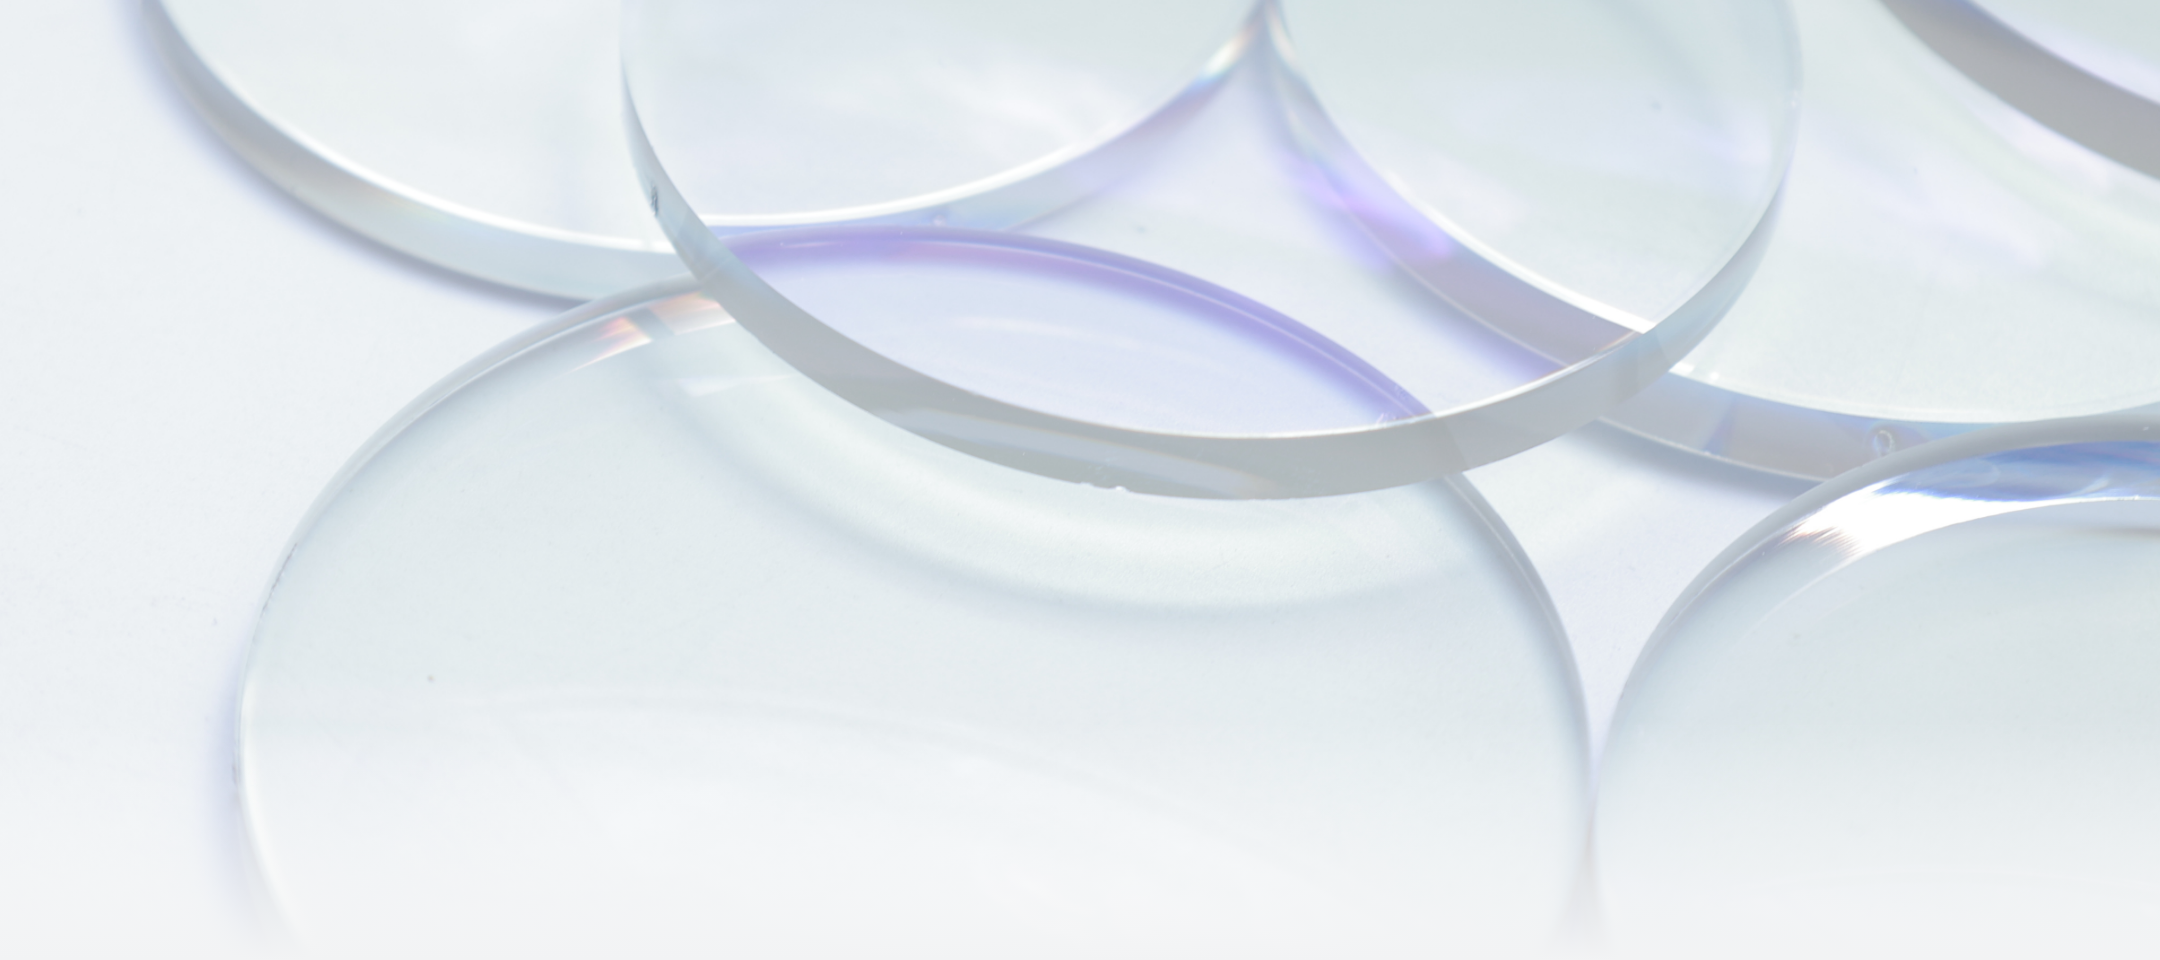
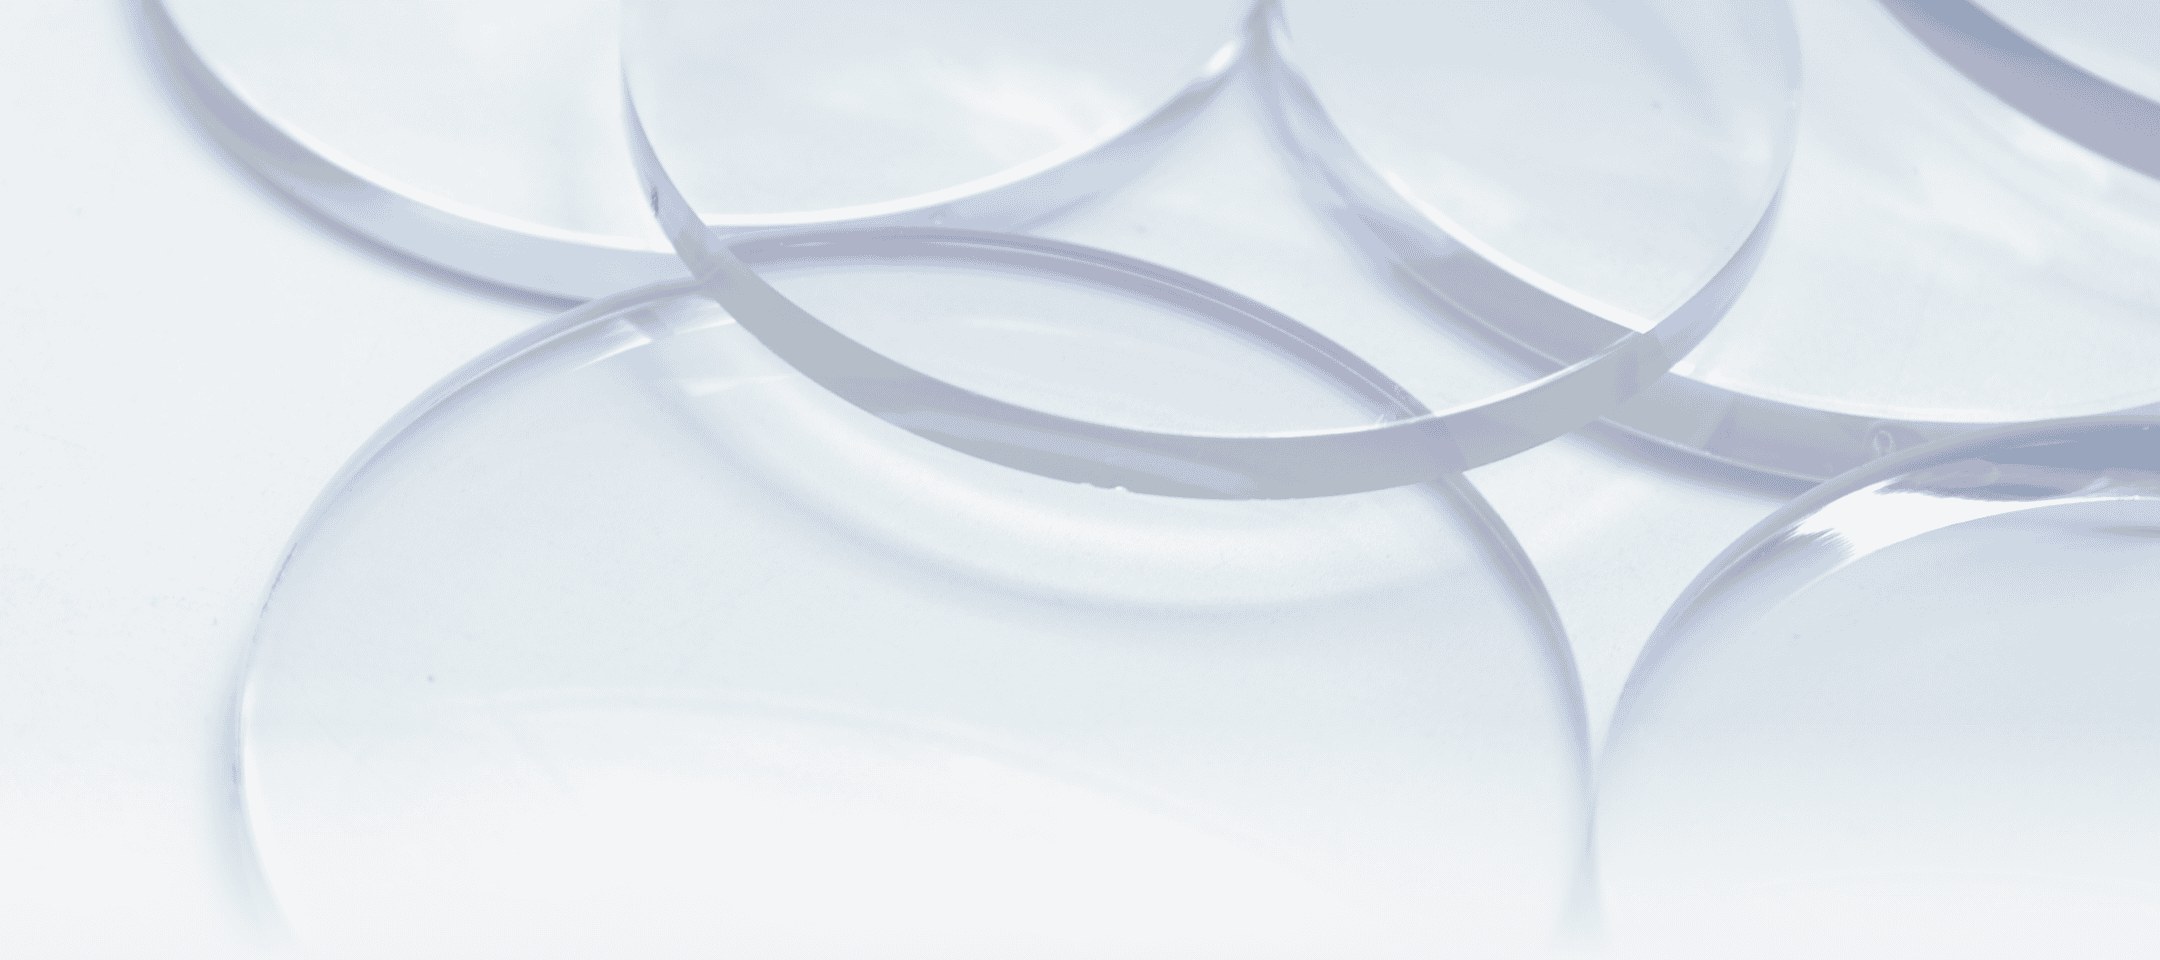
Optimized Images

diff --git a/index.html b/index.html
@@ -15,19 +15,19 @@
 <body id="top">
     <header>
         <div class="header-inner">
-            <a href="index.html#top">
+            <a href="#top">
                 <img class="logo" src="assets/icons/logo.png" alt="General Optics Logo" />
             </a>
             <nav class="nav-links">
                 <ul class="nav-links-inner">
                     <li><a href="#top">TOP</a></li>
-                    <li><a href="index.html#company">会社案内</a></li>
-                    <li><a href="index.html#products">製品案内</a></li>
-                    <li><a href="index.html#equipment">主要設備</a></li>
-                    <li><a href="index.html#news">お知らせ</a></li>
-                    <li><a href="index.html#contact">お問い合わせ</a></li>
+                    <li><a href="#company">会社案内</a></li>
+                    <li><a href="#products">製品案内</a></li>
+                    <li><a href="#equipment">主要設備</a></li>
+                    <li><a href="#news">お知らせ</a></li>
+                    <li><a href="#contact">お問い合わせ</a></li>
                 </ul>
-                <a href="index.html#careers" class="nav-button">採用情報</a>
+                <a href="#careers" class="nav-button">採用情報</a>
             </nav>
         </div>
     </header>
@@ -126,6 +126,7 @@
                             </a>
                         </div>
                         <img class="about-bg" src="assets/images/lens-factory-machines.png" alt="">
+                        <div class="about-bg-image-gradient"></div>
                         <div class="bg-gradient"></div>
                     </div>
                     <div class="about-card">
@@ -144,6 +145,7 @@
                             </a>
                         </div>
                         <img class="about-bg" src="assets/images/lens-factory-machines.png" alt="">
+                        <div class="about-bg-image-gradient"></div>
                         <div class="bg-gradient"></div>
                     </div>
                 </div>

diff --git a/styles.css b/styles.css
@@ -14,6 +14,7 @@
     --accent-color: #218CD9;
     --accent-color-30: rgb(33, 140, 217, 0.3);
     --light-blue: #8BE6F7;
+    --light-blue-2: #8AB8D9;
     --bg-color: #F2F3F4;
     --shadow-1: 0px 3px 6px var(--black-light-20);
     --shadow-2: 0px 0px 10px var(--black);
@@ -524,6 +525,17 @@ main {
     top: 0;
     left: 0;
     z-index: -1;
+}
+
+.about-bg-image-gradient {
+    position: absolute;
+    top: 0;
+    left: 0;
+    width: 100%;
+    height: 100%;
+    z-index: -1;
+    opacity: 40%;
+    background: linear-gradient(270deg, var(--accent-color), var(--light-blue-2));
 }
 
 .about-card:hover .bg-gradient {
